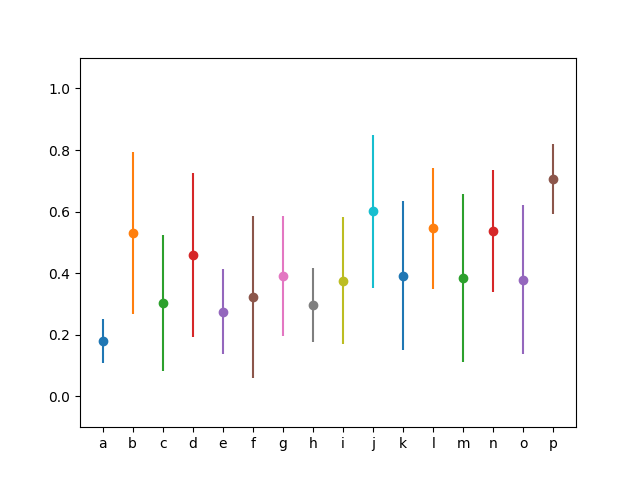
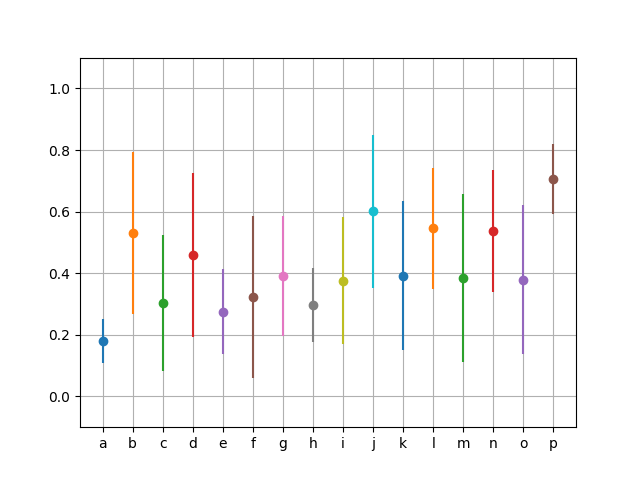
Added MNIST RGB

diff --git a/src/misc/data.py b/src/misc/data.py
@@ -61,6 +61,13 @@ def get_mnist64(download=0):
 def get_mnist64_corrupt(download=0, **kwargs):
     return make_corrupt(get_mnist64(download), **kwargs)
 
+def get_mnistrgb(download=0, r=1, g=1, b=1):
+    CHANNELS = 3
+    trainData, trainLabels, testData, testLabels, NUM_CLASSES, _, IMAGESIZE = get_mnist(download)
+    trainData = trainData.repeat(1, 3, 1, 1)
+    testData = torch.cat([testData*v for v in [r, g, b]], dim=1)
+    return trainData, trainLabels, testData, testLabels, NUM_CLASSES, CHANNELS, IMAGESIZE
+
 def convert_size(data, size):
     N, C, W, H = data.size()
     X, Y = size
@@ -333,17 +340,17 @@ def unittest():
 #        pyplot.show()
 #        pyplot.clf()
     
-    #td, tl, sd, sl, n, c, i = get_cifar1064(download=1)
-    td, tl, sd, sl, n, c, i = get_mnist_corrupt(
-        download=0,
-        minmag=1, maxmag=1,
-        mintrans=0, maxtrans=0,
-        minrot=0, maxrot=0,
-        minalpha=1, maxalpha=1,
-        minbeta=1, maxbeta=1,
-        minsigma=1.5, maxsigma=1.5,
-        mingauss=0, maxgauss=0
-    )
+    td, tl, sd, sl, n, c, i = get_mnistrgb(r=1, g=0, b=0)
+#    td, tl, sd, sl, n, c, i = get_mnist_corrupt(
+#        download=0,
+#        minmag=1, maxmag=1,
+#        mintrans=0, maxtrans=0,
+#        minrot=0, maxrot=0,
+#        minalpha=1, maxalpha=1,
+#        minbeta=1, maxbeta=1,
+#        minsigma=1.5, maxsigma=1.5,
+#        mingauss=0, maxgauss=0
+#    )
     
 #    print("Showing train data")
 #    

diff --git a/src/train.py b/src/train.py
@@ -62,6 +62,7 @@ def main(
         "mnist64": misc.data.get_mnist64,
         "mnist64-corrupt": misc.data.get_mnist64_corrupt,
         "mnist64-quadrants": misc.data.get_mnist64quads,
+        "mnist-rgb": misc.data.get_mnistrgb,
         "cifar10": misc.data.get_cifar10,
         "cifar10-corrupt": misc.data.get_cifar10_corrupt,
         "cifar1064": misc.data.get_cifar1064,

diff --git a/src/abalate.py b/src/abalate.py
@@ -29,5 +29,6 @@ def plot():
                 stdd = statistics.stdev(data)
                 pyplot.errorbar([labels[i]], [mean], yerr=[stdd], fmt="o")
         pyplot.ylim([-0.1, 1.1])
+        pyplot.grid()
         pyplot.savefig(outname + ".png")
         pyplot.clf()
